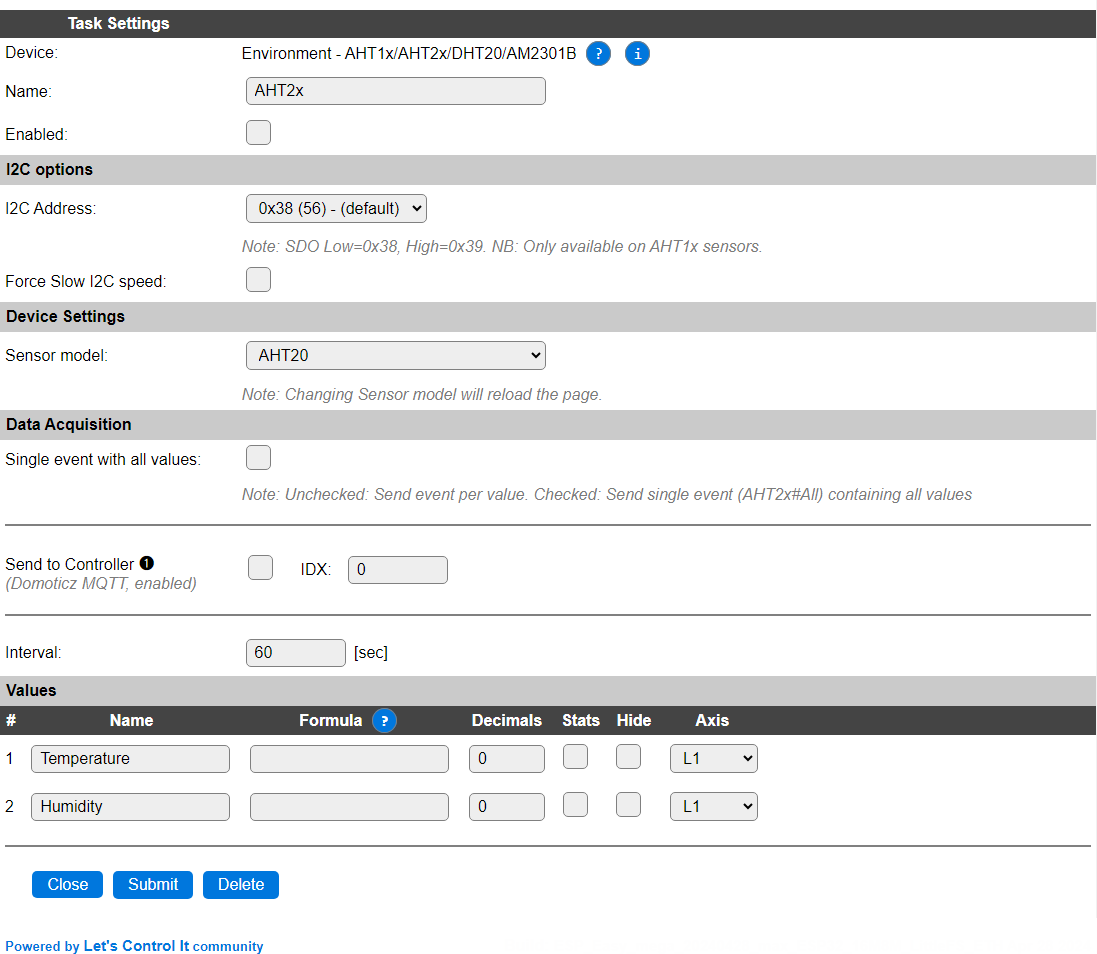
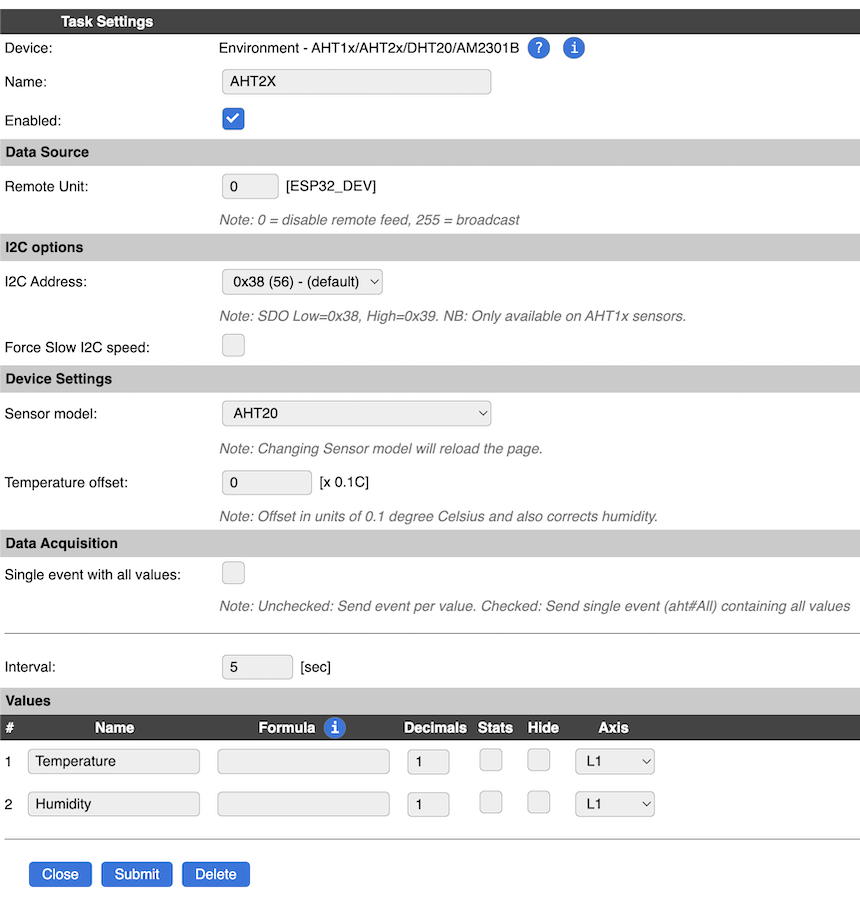
Updates
Add [P105] temp compensation
Update documentation

diff --git a/docs/source/Plugin/P105.rst b/docs/source/Plugin/P105.rst
@@ -79,6 +79,9 @@ When selecting the **AHT1x** Sensor model, an extra option is made available:
 
 * **AHT10 Alternative initialization**: Some AHT10 clone sensors do not seem to like the regular AHT10/AHT15 initialization sequence. They do however accept a soft reset command. By enabling this checkbox, only the soft reset is sent to the device. Only available for AHT1x devices.
 
+* **Temperature offset** Depending on the sensor and the location of the sensor, it may be required to apply some temperature compensation. This can be set in steps of 0.1 degree. This also applies a compensation to the **Humidity** reading.
+
+
 Data Acquisition
 ^^^^^^^^^^^^^^^^
 
@@ -97,6 +100,7 @@ Change log
 
 .. versionchanged:: 2.0
   ...
+  |changed| 2024/12/21 Add temperature offset
 
   |changed| 2024-12-03 Add alternative initialization option
 

diff --git a/docs/source/Plugin/P164.rst b/docs/source/Plugin/P164.rst
@@ -99,7 +99,7 @@ This group of settings, **Single event with all values** and **Send to Controlle
 Values
 ^^^^^^
 
-The plugin provides the ``TVOC`` and ``eCO2`` values. A formula can be set to recalculate. The number of decimals can be set as desired, and defaults to 2.
+The plugin provides the ``TVOC``, ``eCO2`` and ``AQI`` values. A formula can be set to recalculate. The number of decimals can be set as desired, and defaults to 0.
 
 In selected builds, per Value is a **Stats** checkbox available, that when checked, gathers the data and presents recent data in a graph, as described here: :ref:`Task Value Statistics:  <Task Value Statistics>`
 
@@ -111,6 +111,8 @@ Change log
 
 .. versionchanged:: 2.0
   ...
+
+  |changed| 2024-12-21 Added AQI value
 
   |added|
   2023-12-27 Initial release version.
